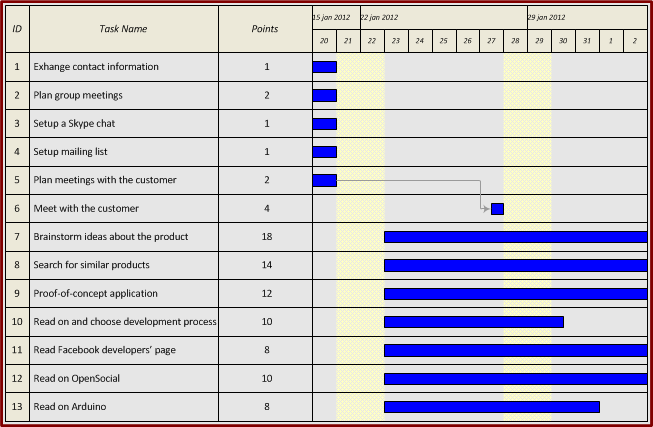
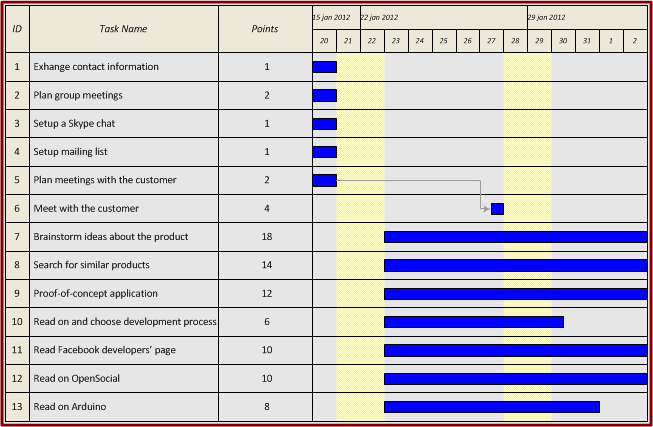
fixed and added gantt diagrams in sprints chapter

Changed region(s): [[0.0, 0.0, 1.0, 1.0], [0.3982, 0.7916, 0.4288, 0.822], [0.3982, 0.7307, 0.4288, 0.7611]]

diff --git a/documentation/report/files/sprints.tex b/documentation/report/files/sprints.tex
@@ -67,11 +67,11 @@ customer, which was arranged for the beginning of the second week.
 \hline
  9 & Proof-of-concept application			& 12 & AN,B,E,JH	& done \\
 \hline
-11 & Read on OpenSocial						& 10 & E,H,JN		& done \\
+12 & Read on OpenSocial						& 10 & E,H,JN		& done \\
 \hline
-13 & Read Facebook developers' pages		& 10  & E			& done\\
+11 & Read Facebook developers' pages		& 10  & E			& done\\
 \hline
-12 & Read on Arduino						& 8  & AN,AS,B,JH	& done \\
+13 & Read on Arduino						& 8  & AN,AS,B,JH	& done \\
 \hline
 10 & Choose a development process			& 6  & Everyone		& done \\
 \hline
@@ -387,6 +387,12 @@ The team also worked on the delivery of the last supervised report.
 \end{tabular}
 \end{table}
 
+\begin{figure}[h!]
+\centering \includegraphics[scale=0.8]{img/sprints-gantt7.png}
+\caption{Gantt diagram for the seventh sprint}
+\label{fig:sprints-gantt7}
+\end{figure}
+
 \newpage
 
 \section{Sprint 8}
@@ -452,6 +458,12 @@ for the next and final sprint.
 \end{tabular}
 \end{table}
 
+\begin{figure}[h!]
+\centering \includegraphics[scale=0.8]{img/sprints-gantt8.png}
+\caption{Gantt diagram for the eight sprint}
+\label{fig:sprints-gantt8}
+\end{figure}
+
 \newpage
 
 \section{Final sprint}
@@ -509,6 +521,12 @@ week was focused mostly on documentation work.
 
 \end{tabular}
 \end{table}
+
+\begin{figure}[h!]
+\centering \includegraphics[scale=0.8]{img/sprints-gantt9.png}
+\caption{Gantt diagram for the last sprint}
+\label{fig:sprints-gantt9}
+\end{figure}
 
 \newpage
 
